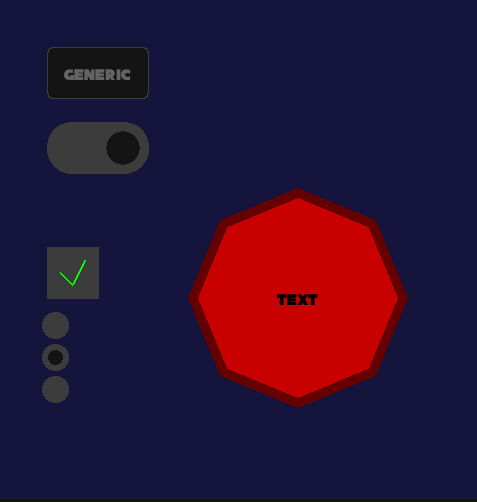
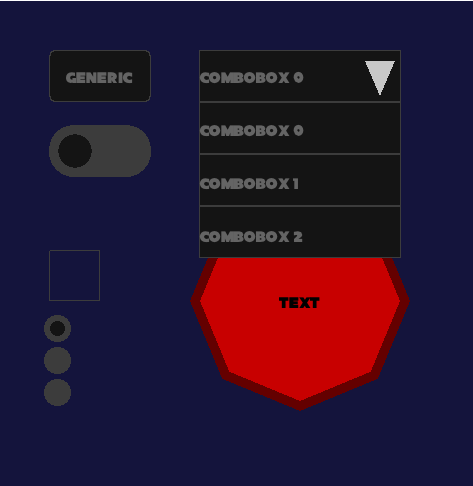
added comboboxes

diff --git a/examples/button.c b/examples/button.c
@@ -3,6 +3,7 @@
 #include "RSGL.h"
 
 int main() {
+    RSGL_setGLVersion(4, 6);
     RSGL_window* win = RSGL_createWindow("name", (RSGL_rect){500, 500, 500, 500}, RSGL_CENTER);
 
     RSGL_button button = RSGL_initButton(); 
@@ -34,6 +35,16 @@ int main() {
 
     RSGL_button_setStyle(&generic, RSGL_STYLE_DARK | RSGL_STYLE_ROUNDED);
 
+    RSGL_button comboBox = RSGL_initButton();
+    char* combos[3] = {"comboBox 0", "comboBox 1", "comboBox 2"};
+    RSGL_button_setCombo(&comboBox, combos, 3);
+
+    /* this can be a rect or polygon */
+    RSGL_button_setRect(&comboBox, RSGL_RECT(200, 50, 200, 50));
+    RSGL_button_setText(&comboBox, "comboBox 0", 11, RSGL_CIRCLE(0, 0, 15), RSGL_RGB(100, 100, 100));
+    RSGL_button_alignText(&comboBox, RSGL_ALIGN_LEFT | RSGL_ALIGN_MIDDLE);
+    RSGL_button_setStyle(&comboBox, RSGL_STYLE_DARK | RSGL_STYLE_COMBOBOX);
+
     /* generic toggle button */
     RSGL_button genericToggle = RSGL_initButton();
     RSGL_button_setPolygon(&genericToggle, RSGL_RECT(50, 125, 100, 50), 36);
@@ -64,6 +75,7 @@ int main() {
             RSGL_button_update(&genericToggle, win->event);
             RSGL_button_update(&checkbox, win->event);
             RSGL_button_update(&radioButtons, win->event);
+            RSGL_button_update(&comboBox, win->event);
         }
 
         RSGL_drawButton(button);
@@ -71,6 +83,7 @@ int main() {
         RSGL_drawButton(genericToggle);
         RSGL_drawButton(checkbox);
         RSGL_drawButton(radioButtons);
+        RSGL_drawButton(comboBox);
 
         RSGL_window_clear(win, RSGL_RGB(20, 20, 60));
     }

diff --git a/README.md b/README.md
@@ -88,7 +88,7 @@ and then link miniaudio your own way\
 
 # Widgets 
 Note, widgets are WIP, the supported widgets include\
-RSGL_alignRect, RSGL_button (checkboxes, toggleboxes and radiobuttons) \
+RSGL_alignRect, RSGL_button (checkboxes, toggleboxes, combo boxes, and radiobuttons) \
 
 RSGL_textBox and RSGL_expandableRect are currently WIP
 
@@ -169,7 +169,7 @@ in the example, you can toggle between opengl 3.0+ and opengl 2.0- by pressing t
 
 ## button.c 
 `examples/button.c` is an example that shows off how to create and manage buttons using RSGL,
-these include, a default style button, an checkbox, a toggle button, radio buttons and a custom button
+these include, a default style button, an checkbox, a toggle button, radio buttons, a comboBox and a custom button
 
 # Dependencies
   All of RSGL's (non-native) dependencies are built-in, 
